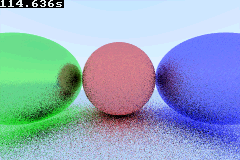
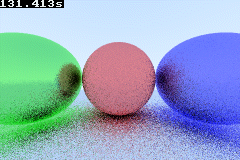
Fix the dithering

diff --git a/src/tracer/denoise.rs b/src/tracer/denoise.rs
@@ -193,6 +193,14 @@ fn add_assign_f16_array(a: &mut [f16; 3], b: [f16; 3]) {
 #[link_section = ".ewram"] // Can hold a full rgb888 framebuffer or 555 framebuffer, perfect for both the low and high res denoisers
 pub static mut DENOISING_WINDOW: [[[f16; 3]; 240]; 3] = [[[0f16; 3]; 240]; 3]; // one framebuffer row wide, 3 rows, 3 pixels per row
 
+fn round_f16(x: f16) -> f16 {
+    if x-x.next_down() < 0.5 {
+        x.next_down()
+    } else {
+        x.next_up()
+    }
+}
+
 pub fn hd_denoise(bitmap: &mut Bitmap3) {
     let bitmap_1 = as_rgb_view_mut();
     #[allow(static_mut_refs)]
@@ -211,7 +219,11 @@ pub fn hd_denoise(bitmap: &mut Bitmap3) {
             // # [0,    X,    7/16]
             // # [3/16, 5/16, 1/16]
             // Bayer extended, x is the current pixel
-            color = bitmap_1[y as usize][x as usize];
+            color = [
+                round_f16(f16::min(255.0, (bitmap_1[y as usize][x as usize][0] as f16 + window[0][x as usize][0] as f16))) as u8,
+                round_f16(f16::min(255.0, (bitmap_1[y as usize][x as usize][1] as f16 + window[0][x as usize][1] as f16))) as u8,
+                round_f16(f16::min(255.0, (bitmap_1[y as usize][x as usize][2] as f16 + window[0][x as usize][2] as f16))) as u8
+            ];
             err_r = (color[0] & 0b00000111) as f16 / 16.0;
             err_g = (color[1] & 0b00000111) as f16 / 16.0;
             err_b = (color[2] & 0b00000111) as f16 / 16.0;
@@ -260,16 +272,13 @@ pub fn hd_denoise(bitmap: &mut Bitmap3) {
                 y,
                 Vec3::new(
                     FixFlt::from_f32(
-                        f32::min(255.0, (color[0] as f32 + window[0][x as usize][0] as f32))
-                            / 256.0,
+                        color[0] as f32 / 256.0,
                     ),
                     FixFlt::from_f32(
-                        f32::min(255.0, (color[1] as f32 + window[0][x as usize][1] as f32))
-                            / 256.0,
+                        color[1] as f32 / 256.0,
                     ),
                     FixFlt::from_f32(
-                        f32::min(255.0, (color[2] as f32 + window[0][x as usize][2] as f32))
-                            / 256.0,
+                        color[2] as f32 / 256.0,
                     ),
                 )
                 .to_gba_color(),
